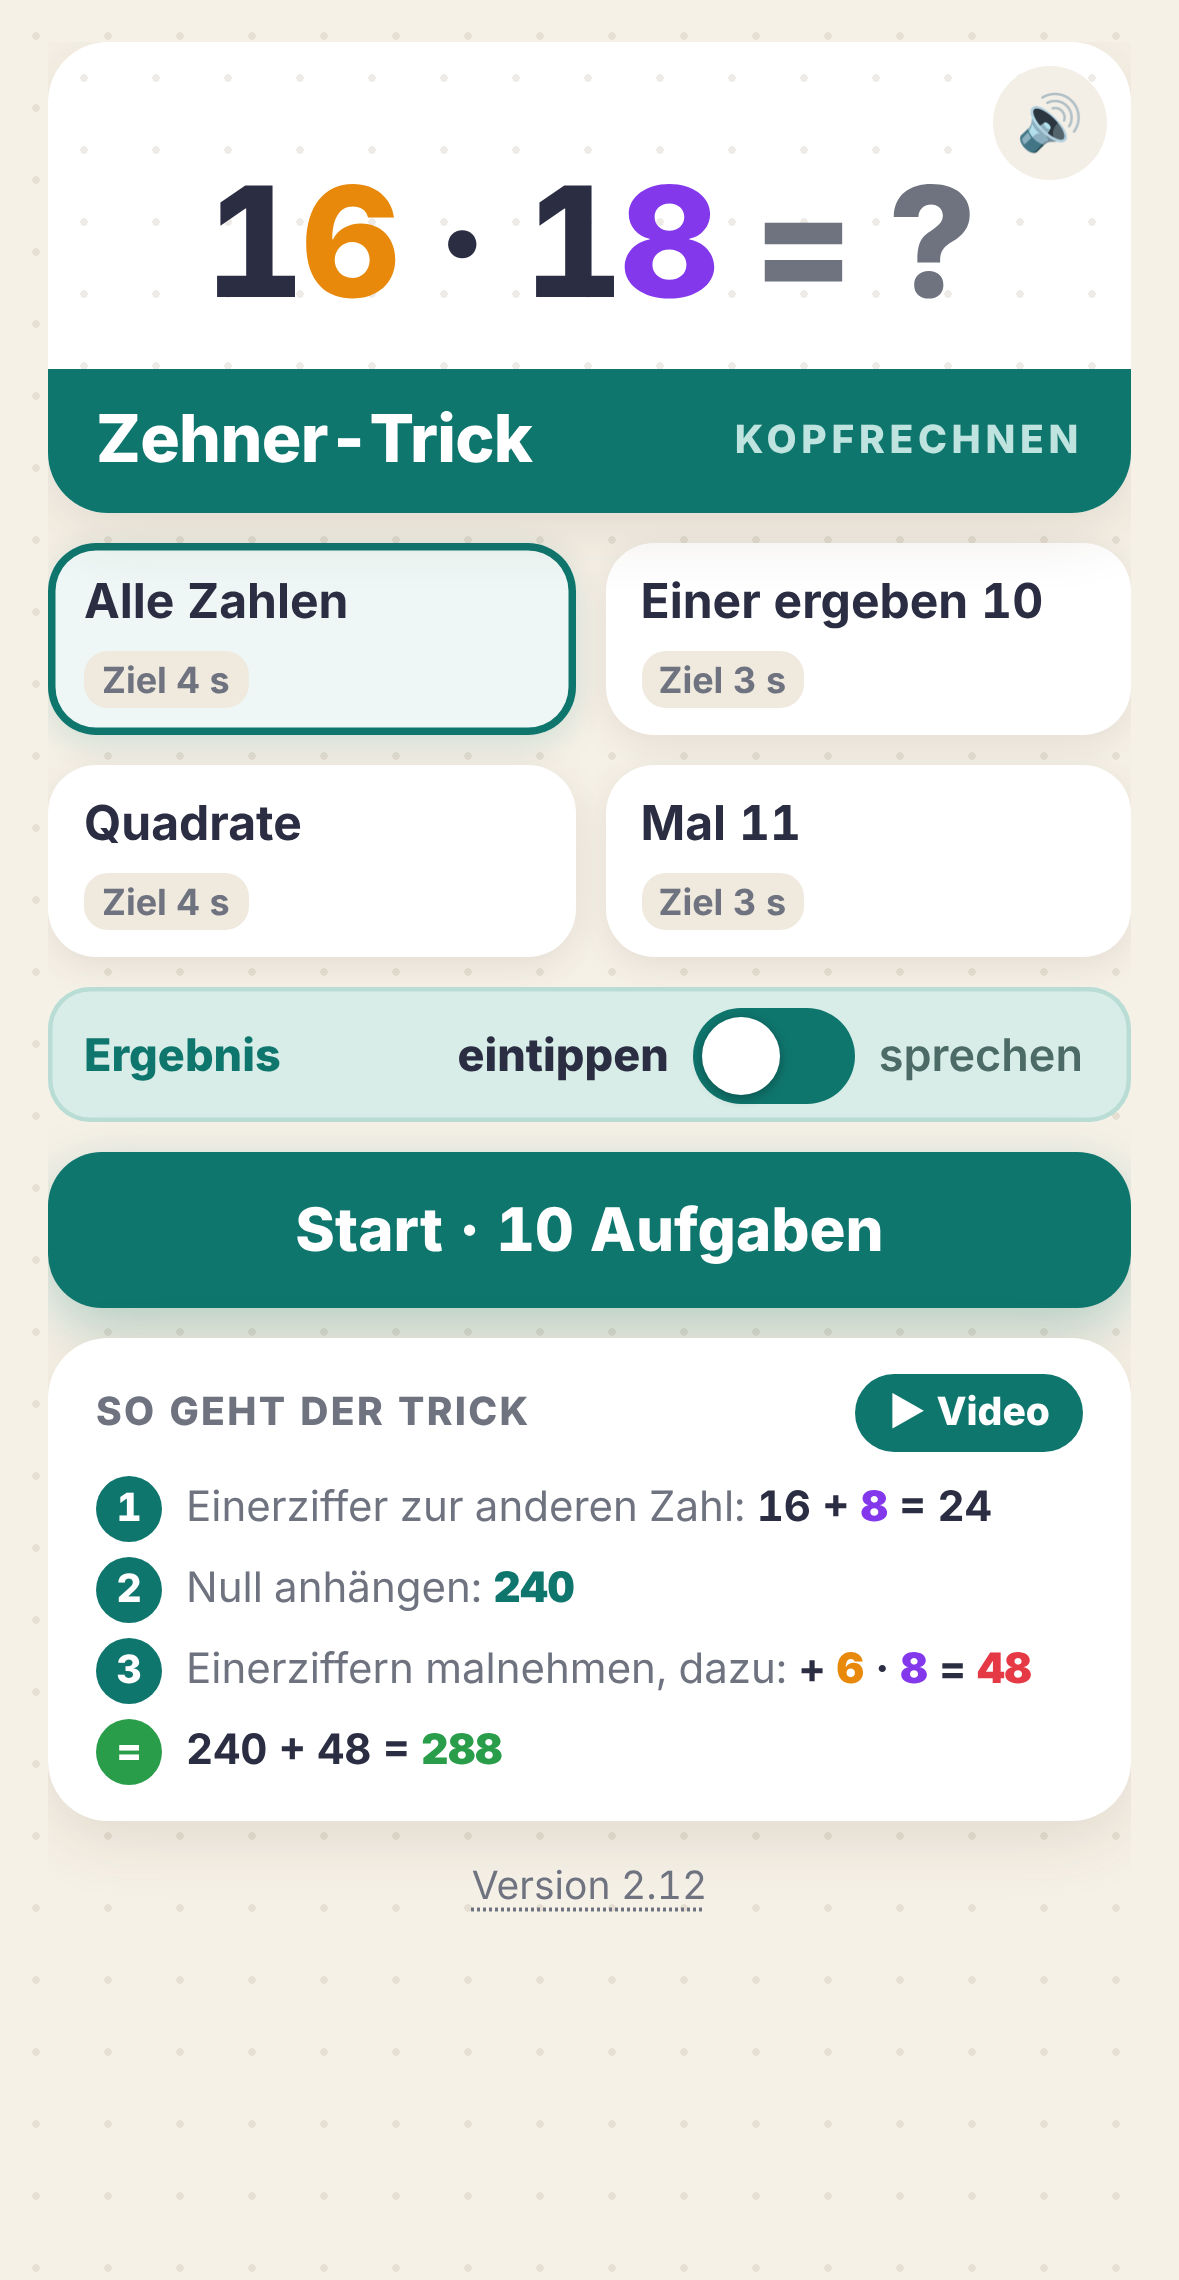
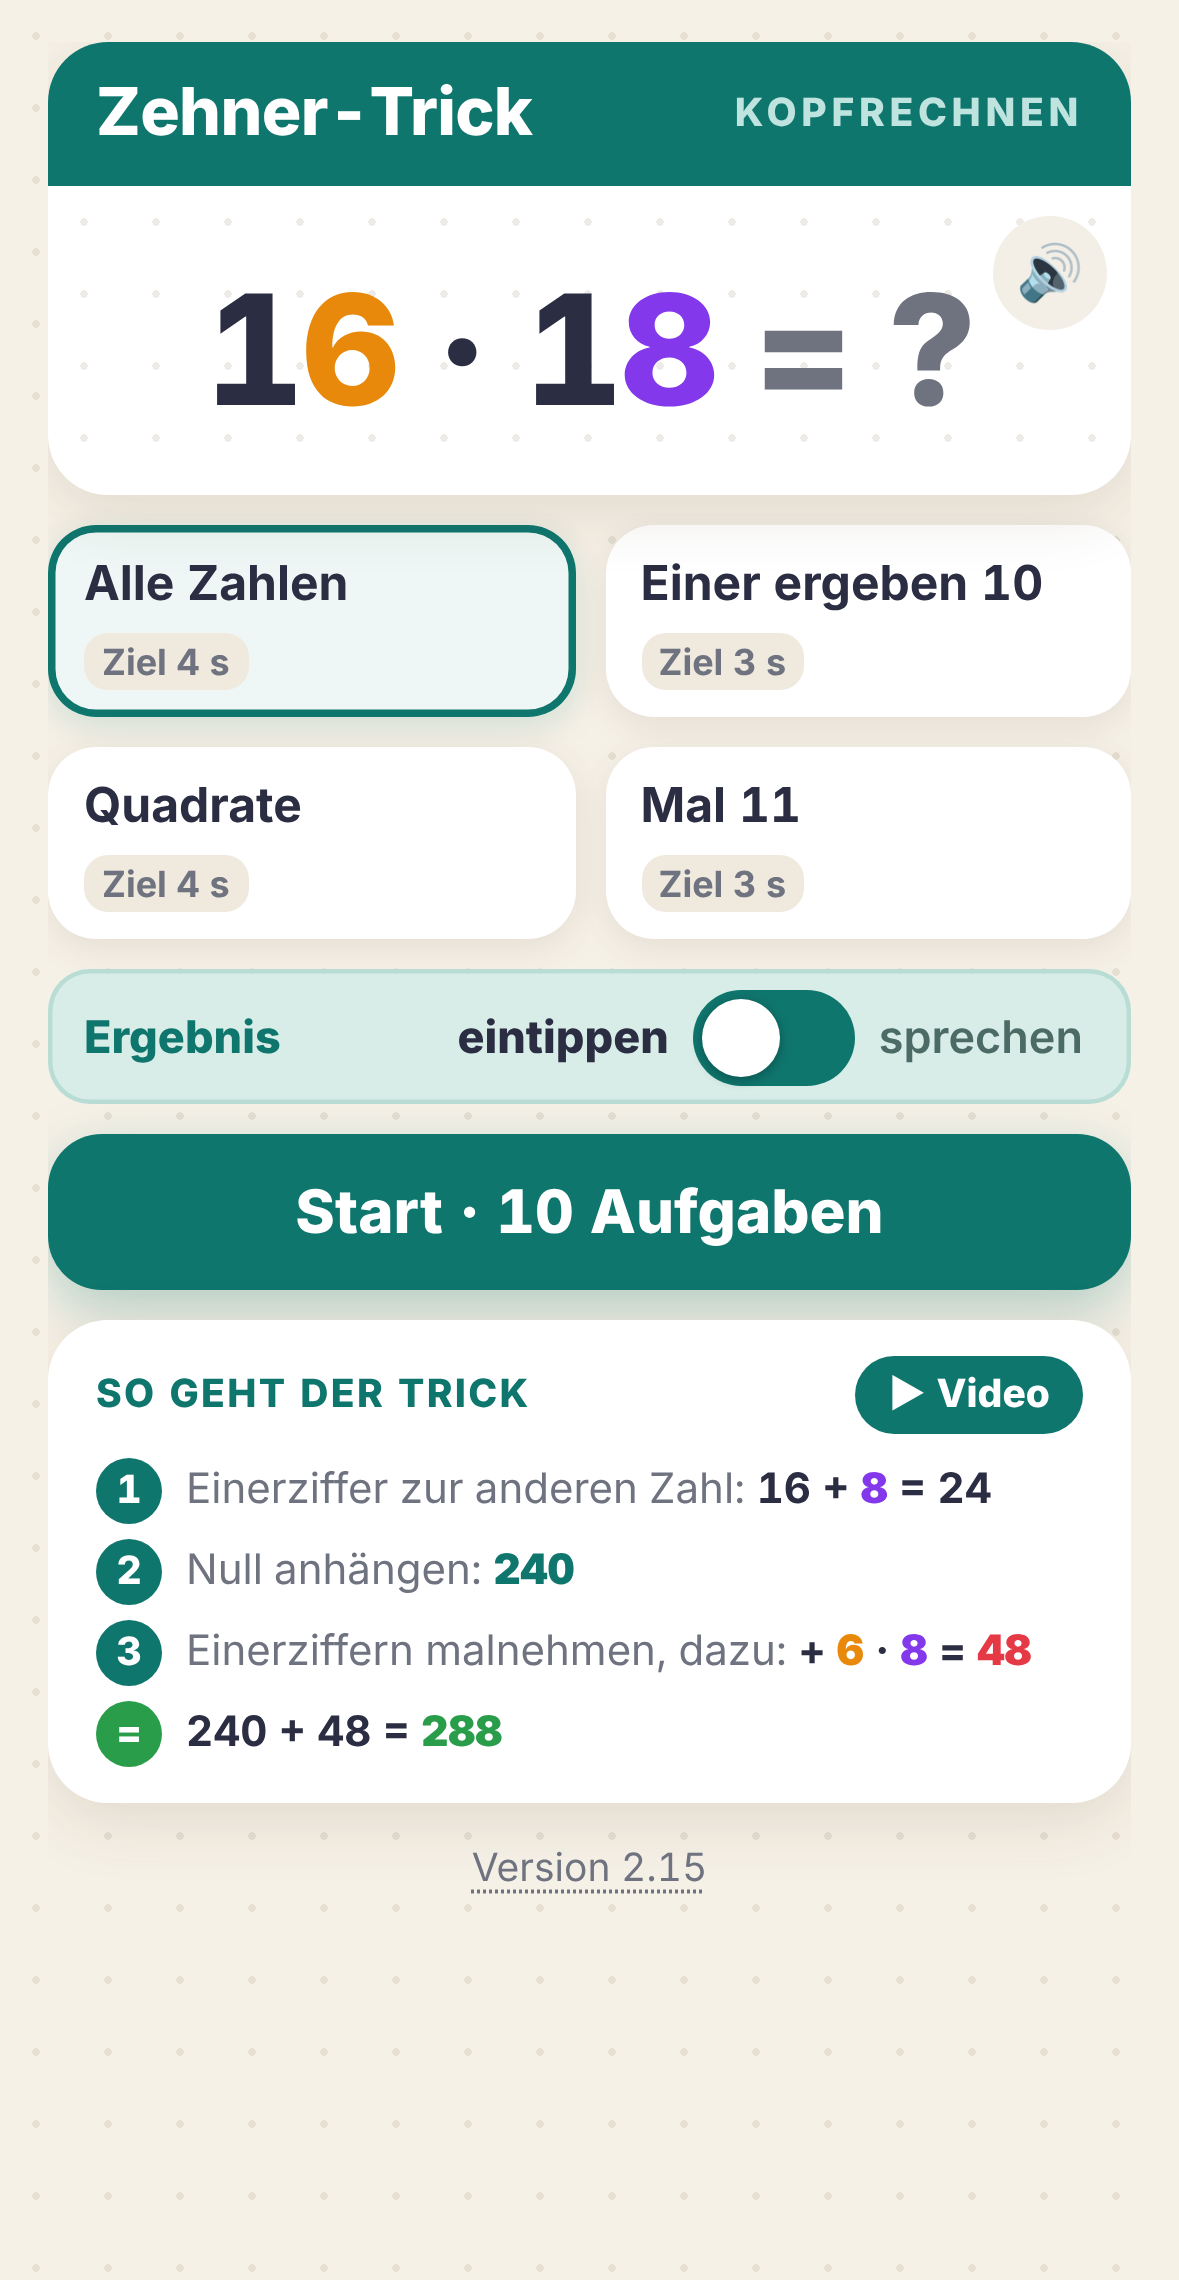
App 2.15: Überschrift „So geht der Trick“ grün (Nutzerwahl); App-Bild im Video nachgezogen
Claude-Session: https://claude.ai/code/session_01LHRCLsibWAQem4TAEuck6M

Changed region(s): [[0.0305, 0.0, 0.9771, 0.8408], [0.7634, 0.7162, 0.8855, 0.7474]]

diff --git a/uebung/index.html b/uebung/index.html
@@ -79,7 +79,7 @@ button { font: inherit; color: inherit; border: 0; background: none; cursor: poi
 .naechster .pf { flex: none; width: 40px; height: 40px; border-radius: 50%; background: var(--c10); color: #fff; display: grid; place-items: center; font-size: 16px; }
 .naechster small { display: block; color: var(--grau); font-size: 13px; font-weight: 600; }
 .naechster b { font-size: 17px; }
-#anleitung h3 { margin: 0 0 8px; font-size: 13px; font-weight: 800; color: var(--grau); letter-spacing: .06em; text-transform: uppercase; }
+#anleitung h3 { margin: 0 0 8px; font-size: 13px; font-weight: 800; color: var(--c10); letter-spacing: .06em; text-transform: uppercase; }   /* grün wie „Ergebnis“ (Nutzerwahl 06.11.) */
 #schritte { list-style: none; margin: 0; padding: 0; display: grid; gap: 5px; font-size: 14px; line-height: 1.3; }
 #schritte li { display: grid; grid-template-columns: 22px 1fr; gap: 8px; align-items: center; }
 #schritte .nr { width: 22px; height: 22px; border-radius: 50%; background: var(--c10); color: #fff; font-size: 13px; font-weight: 800;
@@ -286,7 +286,7 @@ button { font: inherit; color: inherit; border: 0; background: none; cursor: poi
 
 <script src="aufgaben.js"></script>
 <script>
-const APP_VERSION = '2.14';          // bei JEDER Änderung hochzählen
+const APP_VERSION = '2.15';          // bei JEDER Änderung hochzählen
 const $ = s => document.querySelector(s);
 const ANZAHL = 10;
 // Ziel in Sekunden je Aufgabe, je Stufe (Nutzerentscheidung 05.11.: „Alle Zahlen“ 4 s wie im Video, Sonderfall 3 s)

diff --git a/uebung/LIESMICH.md b/uebung/LIESMICH.md
@@ -60,6 +60,7 @@ springt nicht. Eigene Zeile nur noch bei einem Fehler. Zeile „Ergebnis“ leic
 Kopf wie das YouTube-Vorschaubild (Nutzerwahl 06.11., v2.11: „B ist viel besser“): Aufgabe der gewählten Stufe groß
 mit „= ?“, darunter die grüne Leiste mit „Zehner-Trick“ und „KOPFRECHNEN“; Kacheln nur mit Name, Ziel und Bestzeit.
 Der Entwurf „Karten“ ist entfernt.
+v2.15 (Nutzerwahl 06.11.): Überschrift „So geht der Trick“ grün wie „Ergebnis“.
 v2.14 (Nutzerwahl 06.11.): neues Symbol wie das Vorschaubild (`tools/icon.py`); auf dem iPhone erst nach Löschen und neu
 „Zum Home-Bildschirm“ sichtbar.
 v2.13 (Nutzerwahl 06.11.): grüner Balken mit „Zehner-Trick“ und „KOPFRECHNEN“ steht über der großen Aufgabe (Name zuerst).
